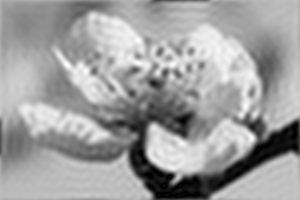
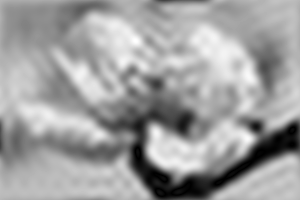
merging using loop in mixing

diff --git a/myWindow.py b/myWindow.py
@@ -68,6 +68,8 @@ class MyWindow(QMainWindow):
         for fixed in [self.fixed1,self.fixed2,self.fixed3,self.fixed4]:
             fixed.setIsBrightness(True)
         # self.output_window = OutputWindow()
+        global MagPhase
+        MagPhase = 'RealImag'
         self.ui.applyButton.clicked.connect(self.open_output_window)
         self.ui.widget.layout().addWidget(self.fixed1)
         self.ui.widget_2.layout().addWidget(self.fixed2)
@@ -111,7 +113,7 @@ class MyWindow(QMainWindow):
         self.fixed2.doubleClicked.connect(lambda event: self.imageDisplay(self.fixed2,self.changed2,self.ui.comboBox_2,2))
         self.fixed3.doubleClicked.connect(lambda event: self.imageDisplay(self.fixed3,self.changed3,self.ui.comboBox_3,3))
         self.fixed4.doubleClicked.connect(lambda event: self.imageDisplay(self.fixed4,self.changed4,self.ui.comboBox_4,4))
-        # self.output_window.ui.pushButton.clicked.connect(self.Cancel)
+        self.ui.pushButton.clicked.connect(self.Cancel)
 
         self.fixed1.BCchanged.connect(lambda: self.UpdateBC(self.fixed1,1,self.ui.comboBox_1))
         self.fixed2.BCchanged.connect(lambda: self.UpdateBC(self.fixed2,2,self.ui.comboBox_2))
@@ -157,8 +159,12 @@ class MyWindow(QMainWindow):
         img = self.QImgtoImage(Qlabel.Qimg,imglabel)
         Images[imglabel-1] = img
         self.updatingComboBox(combobox,imglabel)
-        for i,img in zip(range(len(Images)),Images):
-            self.croppedImages[i] = img.copy()
+        c=0
+        for img in Images:
+            if img.type!=0:
+                c+=1
+        for i in range(c):
+            self.croppedImages[i] = Images[i].copy()
 
     def UpdateRubberBands(self):
         Rect = self.changed1.Rect
@@ -212,8 +218,8 @@ class MyWindow(QMainWindow):
         img.freqy = np.fft.fftfreq(img.shape[1])
         
         # # Fourier FFT
-        img.fft = np.fft.fft2(img.raw_data)
-        img.fft=np.fft.fftshift(img.fft)
+        fft = np.fft.fft2(img.raw_data)
+        img.fft = np.fft.fftshift(fft)
        
         print(img.fft.shape)
         
@@ -297,10 +303,13 @@ class MyWindow(QMainWindow):
         self.updatingComboBox(self.ui.comboBox_3,3)
         self.updatingComboBox(self.ui.comboBox_4,4)
         print(img.imagelabel)
-
+        c=0
+        for img in Images:
+            if img.type!=0:
+                c+=1
         # print(len(Images)) # need to create remove image function to update length of images array
-        for i,img in zip(range(len(Images)),Images):
-            self.croppedImages[i] = img.copy()
+        for i in range(c):
+            self.croppedImages[i] = Images[i].copy()
         for changed in [self.changed1,self.changed2,self.changed3,self.changed4]:
             changed.resetRubberBand()
         self.setMode()
@@ -346,11 +355,11 @@ class MyWindow(QMainWindow):
     def setMode(self):
        global mode
        if  self.ui.comboBox_1.currentText() in ["Real", "Imaginary"] and self.ui.comboBox_2.currentText() in ["Real", "Imaginary"] and self.ui.comboBox_3.currentText() in ["Real", "Imaginary"] and self.ui.comboBox_4.currentText() in ["Real", "Imaginary"]:
-           mode= 'real-imag' 
-           print(mode)
+           mode= 'RealImag' 
        if   self.ui.comboBox_1.currentText() in ["Magnitude", "Phase"]  and self.ui.comboBox_2.currentText() in ["Magnitude", "Phase"] and self.ui.comboBox_3.currentText() in ["Magnitude", "Phase"] and self.ui.comboBox_4.currentText() in ["Magnitude", "Phase"]:
-           mode= 'mag-phase'
-           print(mode)
+           mode= 'MagPhase'
+           if self.crop != None and self.crop != QRect(self.changed1.originQPoint,QtCore.QSize()):
+                mode = MagPhase
 
     def plottingChosenComponents(self,img,component,Qlabel):
         global grayscale_image
@@ -426,16 +435,21 @@ class MyWindow(QMainWindow):
         # self.croppedImages = Images.copy()
         # for fft, img in zip(fftcopy,self.croppedImages):
         #     img.fft=fft
-        for cropped,img in zip(self.croppedImages,Images):
-            cropped = img.copy()
         self.crop = Rect
         # if os.path.exists('temp.jpg'):
         #     os.remove('temp.jpg')
         # if os.path.exists('zeros.jpg'):
         #     os.remove('zeros.jpg')
-        temparray = [Image(),Image(),Image(),Image()]
+        temparray = []
+        c=0
+        for img in Images:
+            if img.type!=0:
+                c+=1
+                temparray.append(Image())
+        for i in range(c):
+            self.croppedImages[i] = Images[i].copy()
         if Rect == None or Rect == QRect(self.changed1.originQPoint,QtCore.QSize()):
-            for i,img in zip(range(len(Images)),Images):
+            for i,img in zip(range(c),Images):
                 temparray[i] = img.copy()
         elif self.isInner == True:
             # for i,image,fixed in zip([1,2,3,4],Images,Qlabelsfixed):
@@ -443,8 +457,8 @@ class MyWindow(QMainWindow):
             #         fixed.getCropped(Rect)
             #         img,pixmap,grayscale_image = self.imageInitializer('output'+str(i)+'.jpg',i)
             #         self.croppedImages[i-1] = img
-            ratio = self.changed1.getRatio()*1.5
-            for i in range(4):
+            ratio = self.changed1.getRatio()*1.2
+            for i in range(c):
                 # maxfreqx = ratio * np.max(self.croppedImages[i].freqx)
                 # maxfreqy = ratio * np.max(self.croppedImages[i].freqy)
                 # indicesx = np.where((self.croppedImages[i].freqx >= maxfreqx) + (self.croppedImages[i].freqx <= -maxfreqx))
@@ -462,7 +476,7 @@ class MyWindow(QMainWindow):
                 #         self.croppedImages[i].fft[ii][iii] = 0
                 # print(self.croppedImages[i].fft[indicesx[1]][indicesy[1]])
                 
-                temparray[i].fft = self.apply_low_pass_filter(self.croppedImages[i],ratio)
+                temparray[i].fft = self.innerFilter(self.croppedImages[i],ratio)
                 temparray[i].magnitude = np.abs(temparray[i].fft)
                 temparray[i].phase = np.angle(temparray[i].fft)
                 temparray[i].real = np.real(temparray[i].fft)
@@ -494,7 +508,7 @@ class MyWindow(QMainWindow):
             #     self.croppedImages[3]=img
         elif self.isInner == False:
             ratio = self.changed1.getRatio()
-            for i in range(4):
+            for i in range(c):
                 # maxfreqx = 0.5 * np.max(self.croppedImages[i].freqx)
                 # maxfreqy = 0.5 * np.max(self.croppedImages[i].freqy)
                 # indicesx = np.where((self.croppedImages[i].freqx <= maxfreqx) * (self.croppedImages[i].freqx >= -maxfreqx))
@@ -516,7 +530,7 @@ class MyWindow(QMainWindow):
                 #   self.croppedImages[i].fft[x, y] = 0
                
                 # self.croppedImages[i].fft = newfft
-                temparray[i].fft = self.apply_high_pass_filter(self.croppedImages[i],ratio)
+                temparray[i].fft = self.outerFilter(self.croppedImages[i],ratio)
                 temparray[i].magnitude = np.abs(temparray[i].fft)
                 temparray[i].phase = np.angle(temparray[i].fft)
                 temparray[i].real = np.real(temparray[i].fft)
@@ -569,44 +583,44 @@ class MyWindow(QMainWindow):
 
         self.setMode()
         global mode
-        print(mode)
-        if all(img.type != 0 for img in Images):
+        if c != 0:
             # firstcomponent=self.chooseComponent(type1,ratio1,Images[0])
             # secoundcomponent=self.chooseComponent(type2,ratio2,Images[1])
             # thirdcomponent=self.chooseComponent(type3,ratio3,Images[2])
             # fourthcomponent=self.chooseComponent(type4,ratio4,Images[3])
-            if(mode=='mag-phase'):
+            if(mode=='MagPhase'):
             
                 mixed_magnitude = np.zeros_like(temparray[0].magnitude,np.float64)
                 mixed_phase = np.zeros_like(temparray[0].phase,dtype=np.complex128)
-                if self.ui.comboBox_1.currentText()=="Magnitude":
-                    mixed_magnitude =temparray[0].magnitude * ratio1
-                else:
-                    mixed_phase = np.exp(1j * temparray[0].phase)* ratio1
+                for i,combobox,ratio in zip(range(c),[self.ui.comboBox_1,self.ui.comboBox_2,self.ui.comboBox_3,self.ui.comboBox_4],[ratio1,ratio2,ratio3,ratio4]):
+                    if combobox.currentText()=="Magnitude" or combobox.currentIndex() == 0:
+                        mixed_magnitude += temparray[i].magnitude * ratio
+                    else:
+                        mixed_phase += np.exp(1j * temparray[i].phase)* ratio
 
-                if  self.ui.comboBox_2.currentText()=="Magnitude":
-                    mixed_magnitude +=temparray[1].magnitude * ratio2
-                else:
-                    # if np.max(np.angle(mixed_phase)) == 0:
-                    #     mixed_phase = np.exp(1j * temparray[1].phase)* ratio2
-                    # else:
-                        mixed_phase += np.exp(1j * temparray[1].phase)* ratio2
+                # if  self.ui.comboBox_2.currentIndex() == 0:
+                #     mixed_magnitude +=temparray[1].magnitude * ratio2
+                # else:
+                #     # if np.max(np.angle(mixed_phase)) == 0:
+                #     #     mixed_phase = np.exp(1j * temparray[1].phase)* ratio2
+                #     # else:
+                #         mixed_phase += np.exp(1j * temparray[1].phase)* ratio2
 
-                if self.ui.comboBox_3.currentText()=="Magnitude":
-                    mixed_magnitude +=temparray[2].magnitude * ratio3
-                else:
-                    # if np.max(np.angle(mixed_phase)) == 0:
-                    #     mixed_phase =np.exp(1j * temparray[2].phase)*ratio3
-                    # else:
-                        mixed_phase +=np.exp(1j * temparray[2].phase)*ratio3
+                # if self.ui.comboBox_3.currentIndex() == 0:
+                #     mixed_magnitude +=temparray[2].magnitude * ratio3
+                # else:
+                #     # if np.max(np.angle(mixed_phase)) == 0:
+                #     #     mixed_phase =np.exp(1j * temparray[2].phase)*ratio3
+                #     # else:
+                #         mixed_phase +=np.exp(1j * temparray[2].phase)*ratio3
 
-                if self.ui.comboBox_4.currentText()=="Magnitude":
-                    mixed_magnitude +=temparray[3].magnitude * ratio4
-                else:
-                    # if np.max(np.angle(mixed_phase)) == 0:
-                    #     mixed_phase = np.exp(1j * temparray[3].phase)* ratio4
-                    # else:
-                        mixed_phase+= np.exp(1j * temparray[3].phase)* ratio4
+                # if self.ui.comboBox_4.currentIndex() == 0:
+                #     mixed_magnitude +=temparray[3].magnitude * ratio4
+                # else:
+                #     # if np.max(np.angle(mixed_phase)) == 0:
+                #     #     mixed_phase = np.exp(1j * temparray[3].phase)* ratio4
+                #     # else:
+                #         mixed_phase+= np.exp(1j * temparray[3].phase)* ratio4
 
 
                 if np.max(np.angle(mixed_phase)) == 0:
@@ -628,39 +642,40 @@ class MyWindow(QMainWindow):
                 plt.imsave('test1.png',np.abs(final_mixed_image) ,cmap='gray')
                 self.tempImg = QImage('test1.png')         
                         
-            elif(mode=='real-imag'):
+            elif(mode=='RealImag'):
                 
                 mixed_imaginary= np.zeros_like(temparray[0].imaginary,dtype=np.complex128)
                 mixed_real = np.zeros_like(temparray[0].real)
-                if self.ui.comboBox_1.currentText()=="Real":
-                    mixed_real =temparray[0].real * ratio1
-                else:
-                    mixed_imaginary =(1j* temparray[0].imaginary)* ratio1
+                for i,combobox,ratio in zip(range(c),[self.ui.comboBox_1,self.ui.comboBox_2,self.ui.comboBox_3,self.ui.comboBox_4],[ratio1,ratio2,ratio3,ratio4]):
+                    if combobox.currentText()=="Real" or combobox.currentIndex() == 0:
+                        mixed_real +=temparray[i].real * ratio
+                    else:
+                        mixed_imaginary +=(1j* temparray[i].imaginary)* ratio
 
-                if  self.ui.comboBox_2.currentText()=="Real":
-                    mixed_real +=temparray[1].real * ratio2
-                else:
-                    # if np.max(np.angle(mixed_imaginary)) == 0:
-                    #    mixed_imaginary = (1j* temparray[1].imaginary)* ratio2 
-                    # else:   
-                       mixed_imaginary += (1j* temparray[1].imaginary)* ratio2
+                # if  self.ui.comboBox_2.currentIndex() == 0:
+                #     mixed_real +=temparray[1].real * ratio2
+                # else:
+                #     # if np.max(np.angle(mixed_imaginary)) == 0:
+                #     #    mixed_imaginary = (1j* temparray[1].imaginary)* ratio2 
+                #     # else:   
+                #        mixed_imaginary += (1j* temparray[1].imaginary)* ratio2
 
-                if self.ui.comboBox_3.currentText()=="Real":
-                    mixed_real +=temparray[2].real * ratio3 
-                else:
-                    # if np.max(np.angle(mixed_imaginary)) == 0:
-                    #     mixed_imaginary =(1j* temparray[2].imaginary)* ratio3
-                    # else:
-                        mixed_imaginary +=(1j* temparray[2].imaginary)* ratio3
+                # if self.ui.comboBox_3.currentIndex() == 0:
+                #     mixed_real +=temparray[2].real * ratio3 
+                # else:
+                #     # if np.max(np.angle(mixed_imaginary)) == 0:
+                #     #     mixed_imaginary =(1j* temparray[2].imaginary)* ratio3
+                #     # else:
+                #         mixed_imaginary +=(1j* temparray[2].imaginary)* ratio3
 
 
-                if self.ui.comboBox_4.currentText()=="Real":
-                    mixed_real +=temparray[3].real * ratio4
-                else:
-                    # if np.max(np.angle(mixed_imaginary)) == 0:
-                    #     mixed_imaginary = (1j* temparray[3].imaginary)* ratio4
-                    # else:
-                        mixed_imaginary+=(1j* temparray[3].imaginary)* ratio4
+                # if self.ui.comboBox_4.currentIndex() == 0:
+                #     mixed_real +=temparray[3].real * ratio4
+                # else:
+                #     # if np.max(np.angle(mixed_imaginary)) == 0:
+                #     #     mixed_imaginary = (1j* temparray[3].imaginary)* ratio4
+                #     # else:
+                #         mixed_imaginary+=(1j* temparray[3].imaginary)* ratio4
                 
                     
                 avg_mixed_image = np.fft.ifftshift( mixed_real + mixed_imaginary)
@@ -672,7 +687,7 @@ class MyWindow(QMainWindow):
                 plt.imsave('test2.png',np.abs(final_mixed_image) , cmap='gray')
                 self.tempImg = QImage('test2.png')
                 # grayscale_image = QImage('test1.png').convertToFormat(QImage.Format_Grayscale8)
-        self.Progressing(4)
+        self.Progressing(5)
 
     def Progressing(self,value):
         self.ui.progressBar.setMaximum(value)
@@ -681,14 +696,9 @@ class MyWindow(QMainWindow):
 
     def Cancel(self):
         self.worker.end = True
+        self.ui.progressBar.setValue(0)
 
     def showOutput(self):
-        if self.crop != QRect(QPoint(0,0),QtCore.QSize()) and self.isInner == False:
-            self.tempImg.save('temp.jpg')
-            # img = PIL.Image.open('temp.jpg')
-            # img.paste(self.zeros,(self.crop.x(),self.crop.y()))
-            # img.save('temp.jpg')
-            self.tempImg = QImage('temp.jpg')
         self.addImageInMain(self.output,self.tempImg)
         # self.output_window.addimage(self.output,self.tempImg)
 
@@ -696,12 +706,12 @@ class MyWindow(QMainWindow):
         self.ui.progressBar.setValue(value)
         # self.output_window.ui.progressBar.setValue(value)
         
-    def apply_high_pass_filter(self, image, ratio):
-        fft_shifted = image.fft
-        freqx = image.freqx
-        freqy = image.freqy
-        maxfreqx = ratio * np.max(freqx)
-        maxfreqy = ratio * np.max(freqy)
+    def innerFilter(self, image, ratio):
+        fft_shifted = image.fft.copy()
+        freqx = image.freqx.copy()
+        freqy = image.freqy.copy()
+        maxfreqx = (1-ratio) * np.max(freqx)
+        maxfreqy = (1-ratio) * np.max(freqy)
         high_pass_filter = np.ones_like(fft_shifted)
         high_pass_filter[np.abs(freqx) <= maxfreqx, :] = 0
         high_pass_filter[:, np.abs(freqy) <= maxfreqy] = 0
@@ -709,12 +719,12 @@ class MyWindow(QMainWindow):
         return filtered_fft
         # filtered_image = np.abs(np.fft.ifft2(np.fft.ifftshift(filtered_fft)))
         
-    def apply_low_pass_filter(self, image, ratio):
-        fft_shifted = image.fft
-        freqx = image.freqx
-        freqy = image.freqy
-        maxfreqx = ratio * np.max(freqx)
-        maxfreqy = ratio * np.max(freqy)
+    def outerFilter(self, image, ratio):
+        fft_shifted = image.fft.copy()
+        freqx = image.freqx.copy()
+        freqy = image.freqy.copy()
+        maxfreqx = (1-ratio) * np.max(freqx)
+        maxfreqy = (1-ratio) * np.max(freqy)
         low_pass_filter = np.zeros_like(fft_shifted)
         low_pass_filter[np.abs(freqx) <= maxfreqx, :] = 1
         low_pass_filter[:, np.abs(freqy) <= maxfreqy] = 1

diff --git a/main.py b/main.py
@@ -3,6 +3,7 @@ from myWindow import *
 if __name__ == "__main__":
     app = QtWidgets.QApplication(sys.argv)  
     window = MyWindow()
+
     window.show()
     sys.exit(app.exec_())
     
